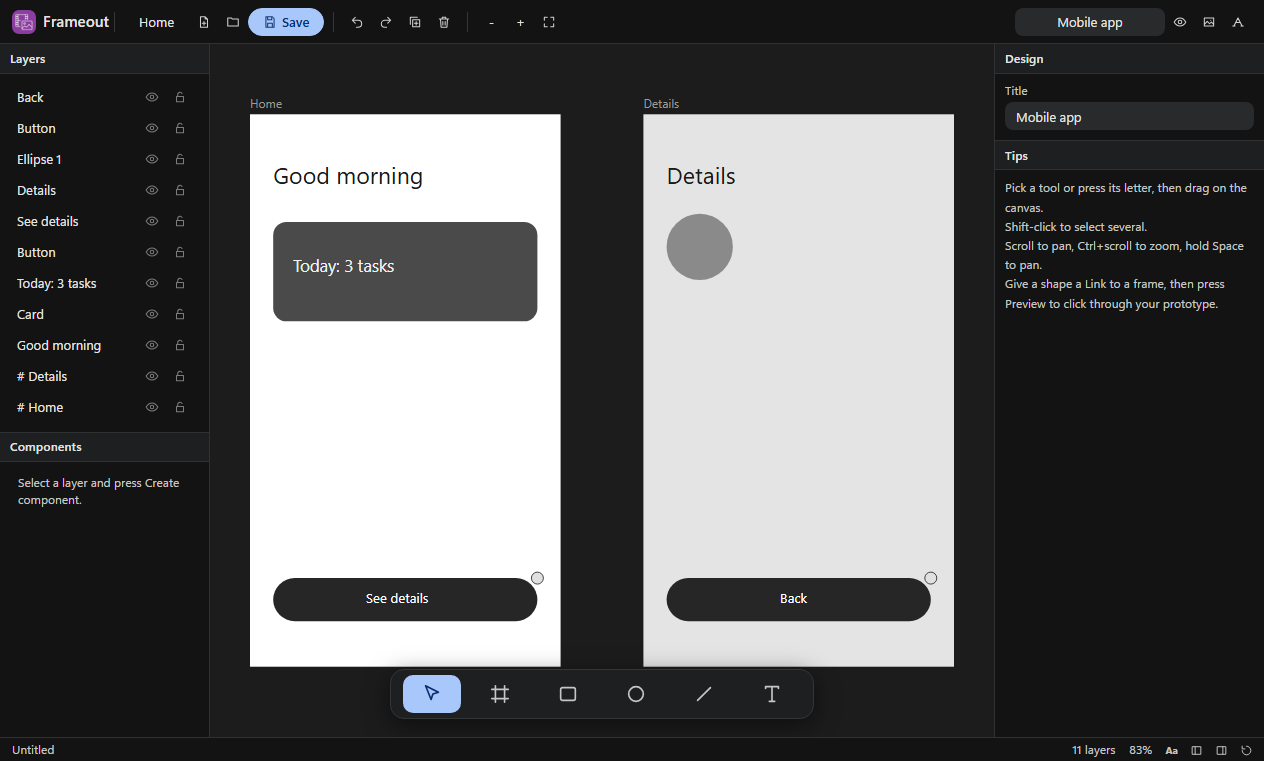
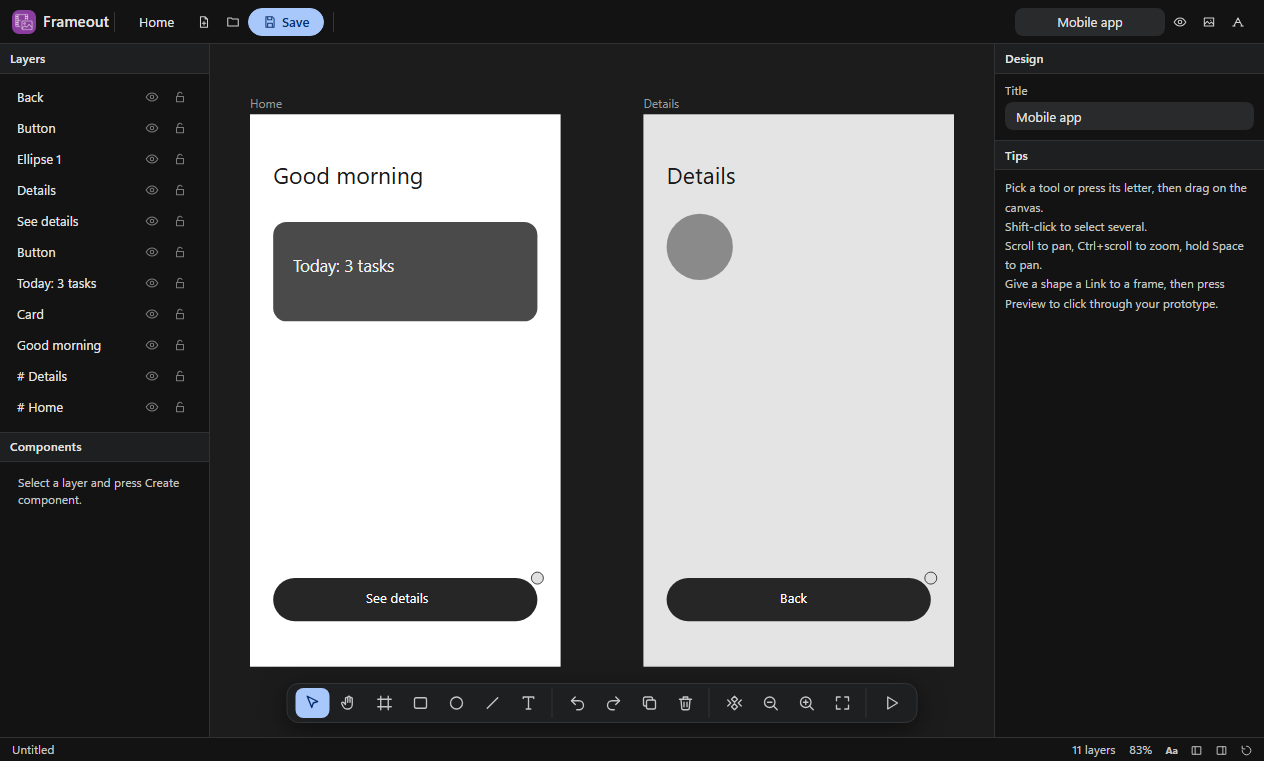
fix: Frameout 1.0.22
Smaller bottom dock with more tools: Hand, Undo, Redo, Duplicate, Delete, Create component, Zoom, Fit, Preview.

Changed region(s): [[0.216, 0.8765, 0.4011, 0.9671], [0.4937, 0.8765, 0.6479, 0.9369], [0.432, 0.9067, 0.4628, 0.9369]]

diff --git a/renderer/app.js b/renderer/app.js
@@ -114,28 +114,37 @@ const btn = (label, fn, cls = '') => h('button', { class: 'btn ' + cls, onclick:
 const toolBtns = {};
 const TOOLS = [['select', 'Move'], ['frame', 'Frame'], ['rect', 'Rectangle'], ['ellipse', 'Ellipse'], ['line', 'Line'], ['text', 'Text']];
 const titleInput = h('input', { type: 'text', class: 'tbtitle', maxlength: 80, title: 'Design name', 'aria-label': 'Design name', placeholder: 'Untitled design', oninput: (e) => { doc.title = e.target.value; }, onchange: (e) => { if (!e.target.value.trim()) { doc.title = 'Untitled design'; e.target.value = doc.title; } }, onkeydown: (e) => { e.stopPropagation(); if (e.key === 'Enter') e.target.blur(); } });
-toolbar.append(btn('Home', () => showHome('home')), btn('New', newDoc), btn('Open', openDoc), btn('Save', saveDoc, 'primary'), h('span', { class: 'sep' }));
-toolbar.append(btn('Undo', undo), btn('Redo', redo), btn('Duplicate', dupe), btn('Delete', del), h('span', { class: 'sep' }),
-  btn('-', () => zoomBy(1 / 1.2), 'icon'), btn('+', () => zoomBy(1.2), 'icon'), btn('Fit', fit), h('span', { class: 'grow' }), titleInput,
+toolbar.append(btn('Home', () => showHome('home')), btn('New', newDoc), btn('Open', openDoc), btn('Save', saveDoc, 'primary'));
+toolbar.append(h('span', { class: 'grow' }), titleInput,
   btn('Preview', startPreview), btn('Export PNG', () => exportImg('png')), btn('Export SVG', () => exportImg('svg')));
 // floating tool dock at the bottom of the canvas, like Figma
-const TOOL_ICONS = {
+const DOCK_ICONS = {
   select: '<path d="M5 3l14 7-6 2-2 6z"/>',
+  hand: '<path d="M8 13V6a1.5 1.5 0 0 1 3 0v5M11 11V4.5a1.5 1.5 0 0 1 3 0V11M14 11V6a1.5 1.5 0 0 1 3 0v8a6 6 0 0 1-6 6h-1a6 6 0 0 1-5-3l-2-4a1.5 1.5 0 0 1 2.4-1.7L8 14"/>',
   frame: '<path d="M7 3v18M17 3v18M3 7h18M3 17h18"/>',
   rect: '<rect x="4" y="5" width="16" height="14" rx="2"/>',
   ellipse: '<circle cx="12" cy="12" r="8"/>',
   line: '<path d="M5 19L19 5"/>',
   text: '<path d="M5 6V4h14v2M12 4v16M9 20h6"/>',
+  undo: '<path d="M9 14L4 9l5-5"/><path d="M4 9h10a6 6 0 0 1 0 12h-3"/>',
+  redo: '<path d="M15 14l5-5-5-5"/><path d="M20 9H10a6 6 0 0 0 0 12h3"/>',
+  dupe: '<rect x="8" y="8" width="12" height="12" rx="2"/><path d="M16 8V6a2 2 0 0 0-2-2H6a2 2 0 0 0-2 2v8a2 2 0 0 0 2 2h2"/>',
+  del: '<path d="M4 7h16M10 11v6M14 11v6M6 7l1 12a2 2 0 0 0 2 2h6a2 2 0 0 0 2-2l1-12M9 7V4h6v3"/>',
+  comp: '<path d="M12 3l4 4-4 4-4-4zM12 13l4 4-4 4-4-4zM3 8l4 4-4 4M21 8l-4 4 4 4"/>',
+  zout: '<circle cx="11" cy="11" r="7"/><path d="M21 21l-5-5M8 11h6"/>',
+  zin: '<circle cx="11" cy="11" r="7"/><path d="M21 21l-5-5M8 11h6M11 8v6"/>',
+  fit: '<path d="M4 9V4h5M20 9V4h-5M4 15v5h5M20 15v5h-5"/>',
+  play: '<path d="M7 4l13 8-13 8z"/>',
 };
+const dockIcon = (k) => { const ico = sv('svg', { viewBox: '0 0 24 24', width: 18, height: 18, fill: 'none', stroke: 'currentColor', 'stroke-width': 1.8, 'stroke-linecap': 'round', 'stroke-linejoin': 'round', 'aria-hidden': 'true' }); for (const n of [...new DOMParser().parseFromString('<svg xmlns="' + NS + '">' + DOCK_ICONS[k] + '</svg>', 'image/svg+xml').documentElement.childNodes]) ico.append(document.importNode(n, true)); return ico; };
 const dock = h('div', { class: 'dock', role: 'toolbar', 'aria-label': 'Tools' });
-for (const [k, label, key] of [['select', 'Move', 'V'], ['frame', 'Frame', 'F'], ['rect', 'Rectangle', 'R'], ['ellipse', 'Ellipse', 'O'], ['line', 'Line', 'L'], ['text', 'Text', 'T']]) {
-  const ico = sv('svg', { viewBox: '0 0 24 24', width: 22, height: 22, fill: 'none', stroke: 'currentColor', 'stroke-width': 1.8, 'stroke-linecap': 'round', 'stroke-linejoin': 'round', 'aria-hidden': 'true' });
-  for (const n of [...new DOMParser().parseFromString('<svg xmlns="' + NS + '">' + TOOL_ICONS[k] + '</svg>', 'image/svg+xml').documentElement.childNodes]) ico.append(document.importNode(n, true));
-  const b = h('button', { class: 'dk', title: label + ' (' + key + ')', 'aria-label': label, onclick: () => setTool(k) }, ico);
-  toolBtns[k] = b; dock.append(b);
-}
+const dockGroup = (items, tools) => { const g = h('div', { class: 'dg' }); for (const [k, label, key, fn] of items) { const b = h('button', { class: 'dk', title: label + (key ? ' (' + key + ')' : ''), 'aria-label': label, onclick: tools ? () => setTool(k) : fn }, dockIcon(k)); if (tools) toolBtns[k] = b; g.append(b); } dock.append(g); };
+dockGroup([['select', 'Move', 'V'], ['hand', 'Hand (pan)', 'H'], ['frame', 'Frame', 'F'], ['rect', 'Rectangle', 'R'], ['ellipse', 'Ellipse', 'O'], ['line', 'Line', 'L'], ['text', 'Text', 'T']], true);
+dockGroup([['undo', 'Undo', 'Ctrl+Z', () => undo()], ['redo', 'Redo', 'Ctrl+Y', () => redo()], ['dupe', 'Duplicate', 'Ctrl+D', () => dupe()], ['del', 'Delete', 'Del', () => del()]], false);
+dockGroup([['comp', 'Create component', '', () => { const i = doc.items.find((x) => sel.has(x.id)); if (sel.size === 1 && i) makeComponent(i); else toast('Select one layer first'); }], ['zout', 'Zoom out', '', () => zoomBy(1 / 1.2)], ['zin', 'Zoom in', '', () => zoomBy(1.2)], ['fit', 'Fit to screen', '', () => fit()]], false);
+dockGroup([['play', 'Preview', '', () => startPreview()]], false);
 stage.append(dock);
-function setTool(t) { tool = t; for (const k in toolBtns) toolBtns[k].classList.toggle('on', k === t); svg.style.cursor = t === 'select' ? 'default' : 'crosshair'; }
+function setTool(t) { tool = t; for (const k in toolBtns) toolBtns[k].classList.toggle('on', k === t); svg.style.cursor = t === 'select' ? 'default' : t === 'hand' ? 'grab' : 'crosshair'; }
 
 const svg = sv('svg', { width: '100%', height: '100%', style: 'display:block;touch-action:none;background:#1c1c1c' });
 const world = sv('g'); const gItems = sv('g'), gUI = sv('g');
@@ -295,7 +304,7 @@ function newDoc() { showSizePicker(); }
 let drag = null, spaceDown = false;
 svg.addEventListener('pointerdown', (ev) => {
   svg.setPointerCapture(ev.pointerId);
-  if (ev.button === 1 || spaceDown) { drag = { mode: 'pan', sx: ev.clientX, sy: ev.clientY, px: panX, py: panY }; return; }
+  if (ev.button === 1 || spaceDown || tool === 'hand') { drag = { mode: 'pan', sx: ev.clientX, sy: ev.clientY, px: panX, py: panY }; return; }
   const p = toW(ev);
   const hd = ev.target.dataset.handle;
   if (hd) { const i = get([...sel][0]); commit(); drag = { mode: 'resize', hd, i, o: { ...i }, p }; return; }
@@ -373,7 +382,7 @@ document.addEventListener('keydown', (e) => {
   else if (e.key === 'Delete' || e.key === 'Backspace') del();
   else if (e.key === 'Escape') { sel.clear(); setTool('select'); render(); }
   else if (e.key.startsWith('Arrow') && sel.size) { e.preventDefault(); const d = e.shiftKey ? 10 : 1; commit(); doc.items.filter((i) => sel.has(i.id)).forEach((i) => { if (e.key === 'ArrowLeft') i.x -= d; if (e.key === 'ArrowRight') i.x += d; if (e.key === 'ArrowUp') i.y -= d; if (e.key === 'ArrowDown') i.y += d; }); render(); }
-  else if (!e.ctrlKey && 'vfrolt'.includes(k) && k.length === 1) setTool({ v: 'select', f: 'frame', r: 'rect', o: 'ellipse', l: 'line', t: 'text' }[k]);
+  else if (!e.ctrlKey && 'vhfrolt'.includes(k) && k.length === 1) setTool({ v: 'select', h: 'hand', f: 'frame', r: 'rect', o: 'ellipse', l: 'line', t: 'text' }[k]);
 });
 document.addEventListener('keyup', (e) => { if (e.code === 'Space') spaceDown = false; });
 

diff --git a/renderer/app.css b/renderer/app.css
@@ -45,7 +45,9 @@
 .hbar{color:var(--text-2)}
 .tbtitle{width:200px;height:30px;padding:0 12px;border-radius:15px;border:1px solid transparent;background:var(--bg-3);color:var(--text);font:inherit;font-size:13px;text-align:center}
 .tbtitle:focus{border-color:var(--accent);outline:0}
-.dock{position:absolute;left:50%;bottom:18px;transform:translateX(-50%);z-index:5;display:flex;gap:10px;padding:5px 12px;background:var(--bg-2);border:1px solid var(--bg-4);border-radius:14px;box-shadow:0 6px 24px rgba(0,0,0,.5)}
-.dk{width:58px;height:38px;display:flex;align-items:center;justify-content:center;border:0;border-radius:10px;background:transparent;color:var(--text-2);cursor:pointer}
+.dock{position:absolute;left:50%;bottom:14px;transform:translateX(-50%);z-index:5;display:flex;align-items:center;gap:6px;padding:4px 8px;background:var(--bg-2);border:1px solid var(--bg-4);border-radius:12px;box-shadow:0 6px 24px rgba(0,0,0,.5);max-width:calc(100% - 24px);overflow-x:auto}
+.dg{display:flex;gap:2px;padding-right:6px;margin-right:2px;border-right:1px solid var(--bg-4)}
+.dg:last-child{border-right:0;padding-right:0;margin-right:0}
+.dk{width:34px;height:30px;flex:none;display:flex;align-items:center;justify-content:center;border:0;border-radius:8px;background:transparent;color:var(--text-2);cursor:pointer}
 .dk:hover{background:var(--bg-3);color:var(--text)}
 .dk.on{background:var(--accent);color:var(--accent-ink)}

diff --git a/README.md b/README.md
@@ -65,6 +65,8 @@ Press **Home** in the top bar at any time to come back to this screen. Your desi
 
 ## What is new
 
+**1.0.22:** the bottom bar is smaller and holds more: a Hand tool (H) to pan, Undo, Redo, Duplicate, Delete, Create component, Zoom out, Zoom in, Fit and Preview, next to the drawing tools.
+
 **1.0.21:** the tool bar at the bottom is wider and lower, so it covers less of your design.
 
 **1.0.20:** the drawing tools (Move, Frame, Rectangle, Ellipse, Line, Text) now sit in a floating bar at the bottom of the canvas, like Figma, with larger icons. Shortcuts V, F, R, O, L and T still work.
